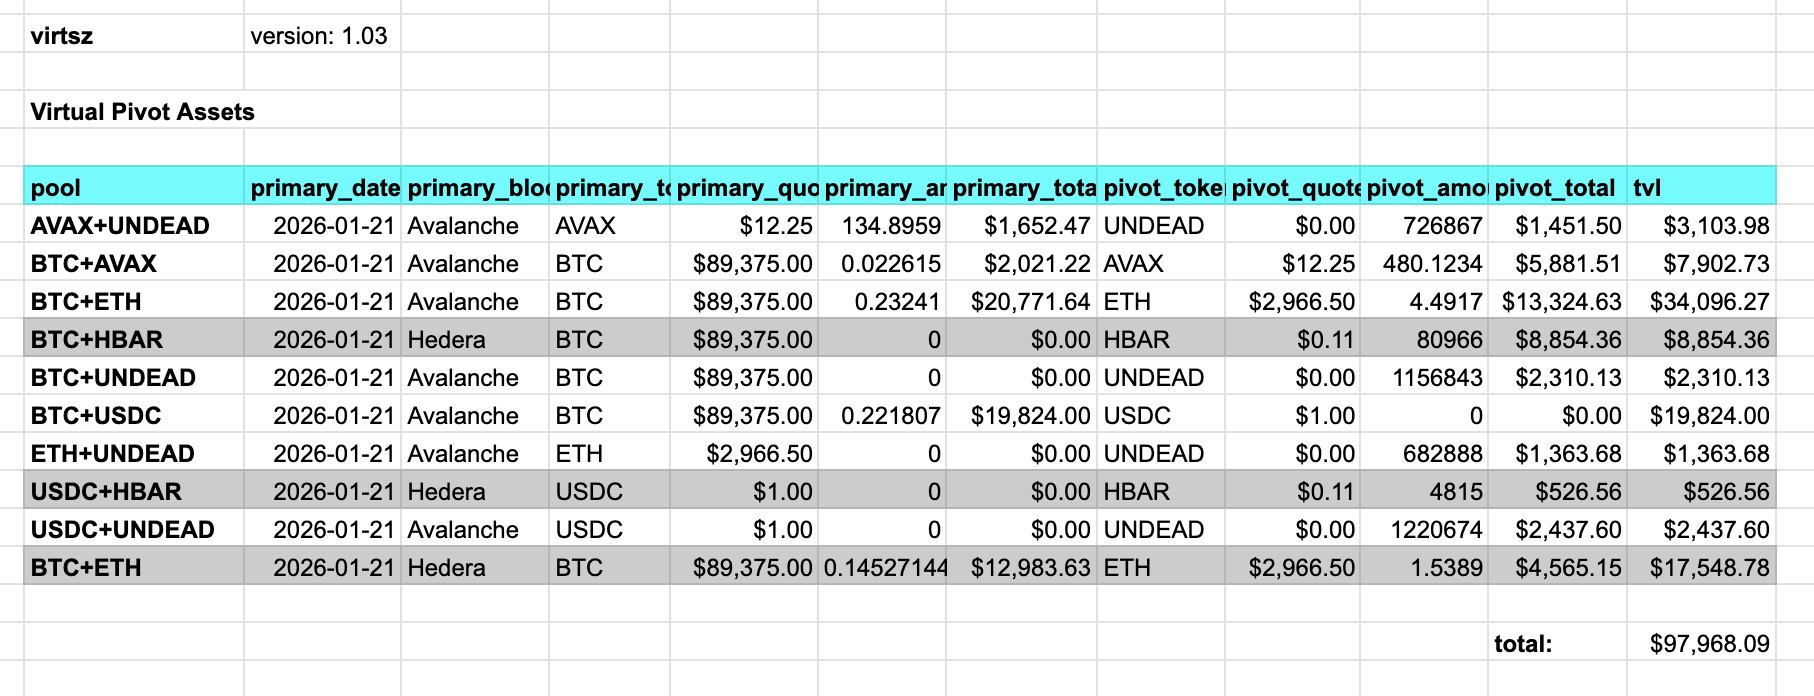
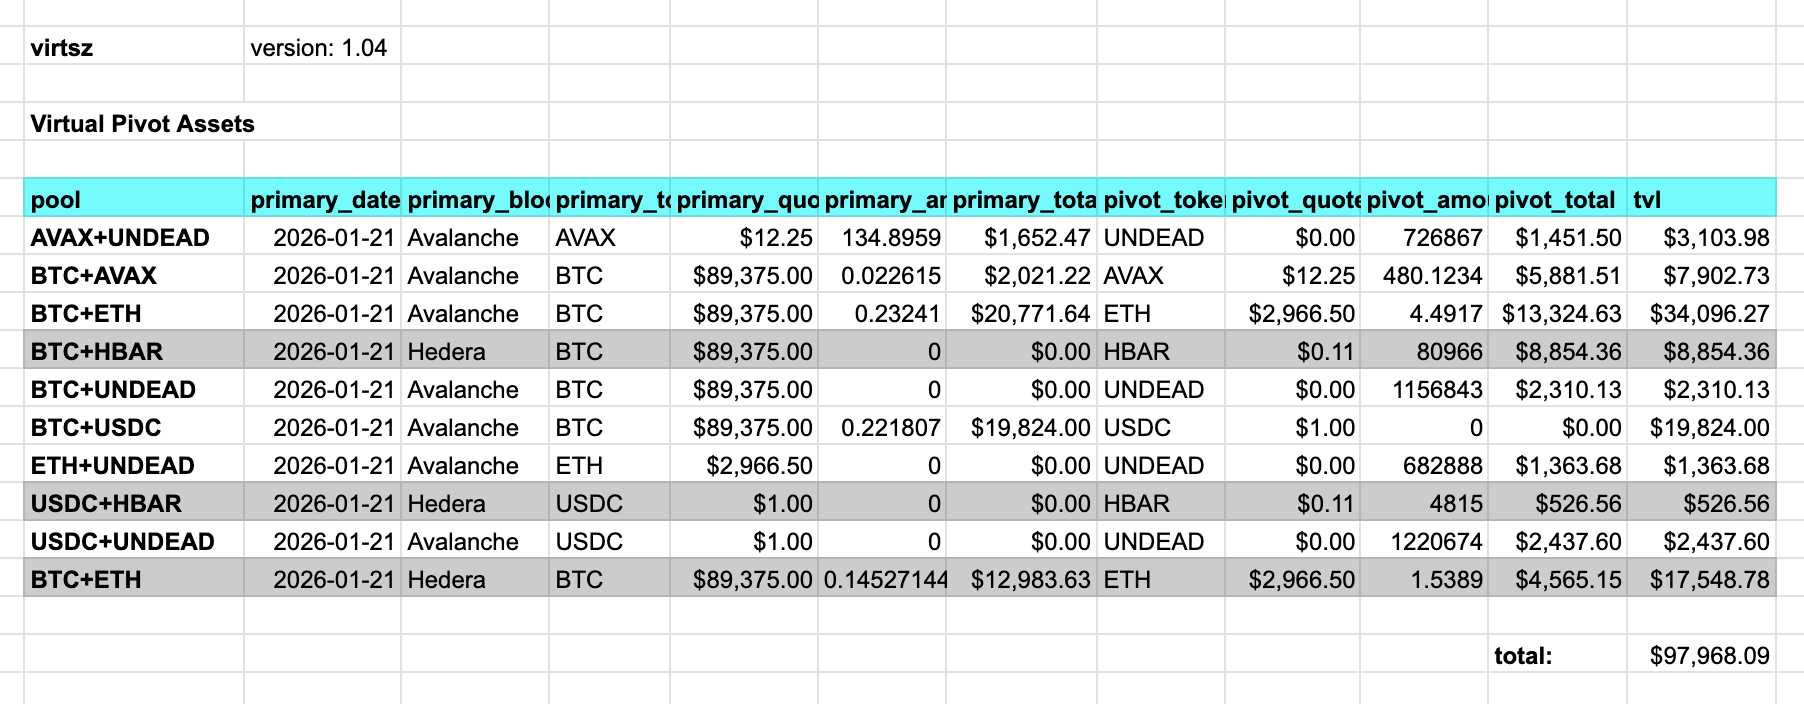
1.04 virtsz: moved aggregate virtual pivot computation to libs::virtuals

diff --git a/libs/src/virtuals.rs b/libs/src/virtuals.rs
@@ -2,17 +2,19 @@ use chrono::NaiveDate;
 
 use book::{
    currency::usd::mk_usd,
+   date_utils::parse_date,
    err_utils::ErrStr,
    tuple_utils::fst,
-   utils::pred
+   utils::{pred,get_env}
 };
 
 use super::{
    collections::assets::{Assets,mk_assets,assets_by_price},
-   fetchers::fetch_open_pivots,
+   fetchers::{fetch_open_pivots,fetch_quotes},
+   git::fetch_pool_names,
    reports::header,
    types::{
-      aliases::Aliases,
+      aliases::{Aliases,aliases},
       assets::{Asset,mk_asset},
       comps::{Composition,mk_composition},
       pivots::{is_virtual,committed},
@@ -20,6 +22,24 @@ use super::{
       util::{Blockchain,Token,Pool}
    }
 };
+
+pub async fn compute_virtuals(protocol: &str, dt: &str)
+      -> ErrStr<(Vec<Composition>, Vec<Pool>)> {
+   let auth = protocol.to_uppercase();
+   let root_url = get_env(&format!("{auth}_URL"))?;
+   let date = parse_date(&dt)?;
+   let quotes = fetch_quotes(&date).await?;
+   let mut virts = Vec::new();
+   let mut no_virts = Vec::new();
+   let a = aliases();
+   let pool_names = fetch_pool_names(&auth, "data/pools").await?;
+   for pool in pool_names {
+      let mb_virts = virtuals(&root_url, &date, &a, &quotes, &pool).await?;
+      let _: Option<()> = mb_virts.and_then(|v| { virts.push(v); Some(()) })
+                                  .or_else(|| { no_virts.push(pool); None });
+   }
+   Ok((virts, no_virts))
+}
 
 type Key = (Blockchain, Token);
 fn null_key() -> Key { (String::new(), String::new()) }
@@ -68,15 +88,11 @@ fn mk_virtuals(blk: Blockchain, pool: &Pool, a: &Aliases, q: &Quotes,
 #[cfg(test)]
 mod tests {
    use chrono::Local;
+   use std::collections::HashMap;
 
    use super::*;
 
-   use std::collections::HashMap;
-
-   use crate::types::{
-      aliases::aliases,
-      quotes::mk_quotes
-   };
+   use crate::types::quotes::mk_quotes;
 
    fn today() -> NaiveDate { Local::now().naive_local().date() }
 

diff --git a/quizzes/quiz07/b_virtual/src/main.rs b/quizzes/quiz07/b_virtual/src/main.rs
@@ -1,52 +1,30 @@
 use book::{
    csv_utils::CsvWriter,
-   date_utils::parse_date,
    err_utils::ErrStr,
-   utils::{get_args,get_env}
+   utils::get_args
 };
 
 use libs::{
-   fetchers::fetch_quotes,
-   git::fetch_pool_names,
    reports::{total_line,print_table,compact},
-   virtuals::virtuals,
-   types::{
-      aliases::aliases,
-      comps::{Composition,total}
-   }
+   virtuals::compute_virtuals,
+   types::comps::{Composition,total}
 };
 
-fn version() -> String { "1.03".to_string() }
+fn version() -> String { "1.04".to_string() }
 fn app_name() -> String { "virtsz".to_string() }
 
 #[tokio::main]
 async fn main() -> ErrStr<()> {
    let args = get_args();
    if let [protocol, dt] = args.as_slice() {
-      compute_virtuals(&protocol, &dt).await
+      let (virts, no_virts) = compute_virtuals(&protocol, &dt).await?;
+      report_on_assets(&virts); report_on_assets(&virts);
+      compact("Pivot pools with no virtual pivots", "",
+              &no_virts, virts.first(), 12);
+      Ok(())
    } else {
       Err(usage())
    }
-}
-
-async fn compute_virtuals(protocol: &str, dt: &str) -> ErrStr<()> {
-   let auth = protocol.to_uppercase();
-   let root_url = get_env(&format!("{auth}_URL"))?;
-   let date = parse_date(&dt)?;
-   let quotes = fetch_quotes(&date).await?;
-   let mut virts = Vec::new();
-   let mut no_virts = Vec::new();
-   let a = aliases();
-   let pool_names = fetch_pool_names(&auth, "data/pools").await?;
-   for pool in pool_names {
-      let mb_virts = virtuals(&root_url, &date, &a, &quotes, &pool).await?;
-      let _: Option<()> = mb_virts.and_then(|v| { virts.push(v); Some(()) })
-                                  .or_else(|| { no_virts.push(pool); None });
-   }
-   report_on_assets(&virts);
-   compact("Pivot pools with no virtual pivots", "",
-           &no_virts, virts.first(), 12);
-   Ok(())
 }
 
 fn report_on_assets(pools: &Vec<Composition>) {

diff --git a/dapps/virtsz/README.md b/dapps/virtsz/README.md
@@ -8,6 +8,7 @@ Show assets committed to virtual pivots.
 
 ## Revisions
 
+* 1.04, 2026-01-21: moved aggregate virtual computation to libs::virtuals
 * 1.03, 2026-01-21: moved virtuals to libs::virtuals
 * 1.02, 2026-01-21: moved total_line to libs::reports
 * 1.01, 2026-01-21: added app_name and version, improved report-format
